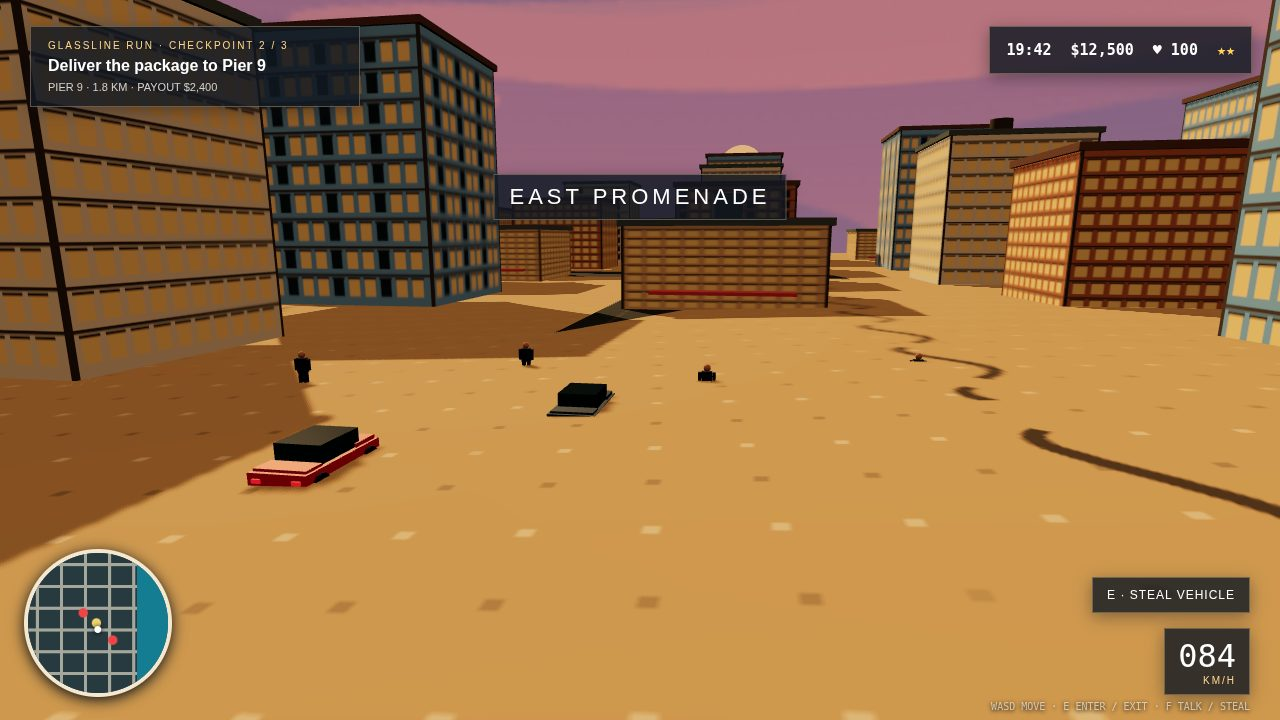
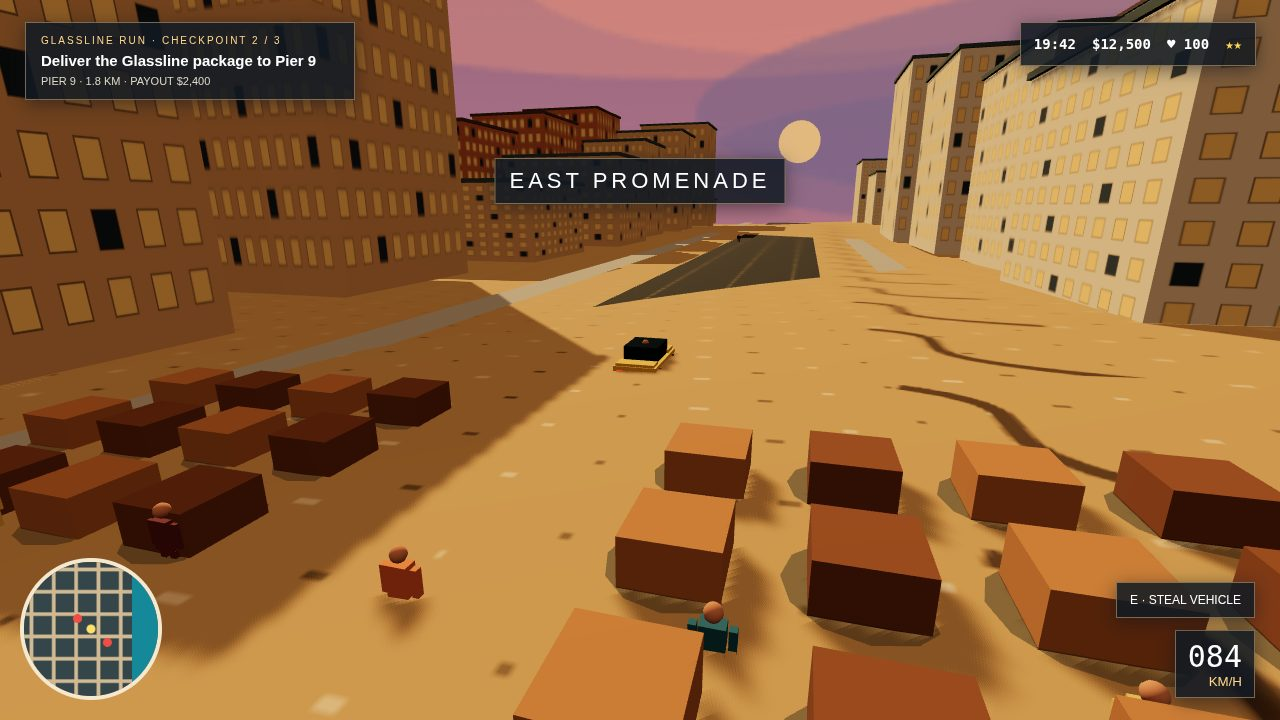
Rebuild Solmere (re-record R10): fix round — clutter dead lots, live pursuit chase, palette break, target top 20

diff --git a/game/src/main.js b/game/src/main.js
@@ -1,47 +1,6 @@
 import * as T from '../vendor/three/three.module.min.js';
-import {buildCity,terrainHeight,repairTerrainAxis} from './city.js';
-import {buildTraffic,makeCar} from './traffic.js';
-import {buildPolice} from './police.js';
-import {paintMap} from './hud.js';
-import {GLASSLINE} from './missions.js';
-
-const shot=Number(new URLSearchParams(location.search).get('shot')||0);
-document.body.dataset.shot=shot;
-const renderer=new T.WebGLRenderer({canvas:document.querySelector('#world'),antialias:true});
-renderer.setPixelRatio(1);renderer.setSize(innerWidth,innerHeight);renderer.shadowMap.enabled=true;
-renderer.shadowMap.type=T.PCFSoftShadowMap;renderer.outputColorSpace=T.SRGBColorSpace;
-renderer.toneMapping=T.ACESFilmicToneMapping;renderer.toneMappingExposure=1.12;
-const sky=document.createElement('canvas');sky.width=1024;sky.height=512;
-const skyCtx=sky.getContext('2d'),gradient=skyCtx.createLinearGradient(0,0,0,512);
-gradient.addColorStop(0,'#55446f');gradient.addColorStop(.48,'#a06b83');gradient.addColorStop(.78,'#ef9268');gradient.addColorStop(1,'#f5b16f');skyCtx.fillStyle=gradient;skyCtx.fillRect(0,0,1024,512);
-for(let i=0;i<24;i++){skyCtx.fillStyle=i%2?'#75608488':'#e68a7b66';skyCtx.beginPath();skyCtx.ellipse(i*71%1024,90+i*31%180,70+i%5*15,10+i%4*5,0,0,Math.PI*2);skyCtx.fill()}
-const skyTex=new T.CanvasTexture(sky);skyTex.mapping=T.EquirectangularReflectionMapping;skyTex.colorSpace=T.SRGBColorSpace;
-const scene=new T.Scene();scene.background=skyTex;scene.fog=new T.Fog('#bd8275',220,620);
-scene.add(new T.HemisphereLight('#ffd4ad','#30293a',1.25));
-const sun=new T.DirectionalLight('#ffd39a',3.2);sun.position.set(-95,115,-115);sun.castShadow=true;
-sun.shadow.mapSize.set(2048,2048);sun.shadow.camera.left=-210;sun.shadow.camera.right=210;
-sun.shadow.camera.top=210;sun.shadow.camera.bottom=-210;sun.shadow.bias=-.0002;scene.add(sun);
-const disc=new T.Mesh(new T.CircleGeometry(12,32),new T.MeshBasicMaterial({color:'#ffb45e'}));
-disc.position.set(0,44,-350);scene.add(disc);
-buildCity(scene);
-scene.traverse(o=>{if(o.isMesh){o.castShadow=true;o.receiveShadow=true}});
-repairTerrainAxis(scene);
-const player=makeCar(scene,'#263d51'),traffic=buildTraffic(scene),police=buildPolice(scene),people=[];
-function person(x,z,color,redAccent=false){const g=new T.Group(),cloth=new T.MeshStandardMaterial({color}),skin=new T.MeshStandardMaterial({color:'#c68b69'});function part(geo,m,a,b,c){const o=new T.Mesh(geo,m);o.position.set(a,b,c);o.castShadow=true;g.add(o)}part(new T.BoxGeometry(.46,.72,.3),cloth,0,1.05,0);part(new T.SphereGeometry(.17,10,8),skin,0,1.6,0);if(redAccent)part(new T.BoxGeometry(.12,.65,.33),new T.MeshStandardMaterial({color:'#c6363e'}),.2,1.08,0);for(const s of [-1,1]){part(new T.BoxGeometry(.14,.6,.16),cloth,s*.34,1.05,0);part(new T.BoxGeometry(.16,.65,.18),cloth,s*.14,.35,0)}g.position.set(x,0,z);g.userData.pedestrian=true;scene.add(g);people.push(g);return g}
-for(let i=0;i<10;i++)person(-24+i*5,20+i%3*4,['#dd8250','#357088','#dfbf64','#77434a'][i%4]);
-for(let i=0;i<12;i++)person(262+i%4*8,28+Math.floor(i/4)*9,['#e58251','#326b7d','#dfbf64'][i%3]);
-const nia=person(-7,-105,'#202a36',true),camera=new T.PerspectiveCamera(57,innerWidth/innerHeight,.1,1100);
-let speed=84,driving=true;const prompt=document.querySelector('.prompt');
-paintMap(document.querySelector('.map canvas'),shot===4?'east':'marina');
-function orientAlongX(obj){obj.rotation.y=Math.PI/2}
-function stage(){
- if(shot===1){player.position.set(0,terrainHeight(0,-110),-110);orientAlongX(player);camera.position.set(-16,4.8,-110);camera.lookAt(34,1.3,-110);camera.fov=57;camera.updateProjectionMatrix();police.cars[0].position.set(-5,0,-107);police.cars[1].position.set(-10,0,-113);police.cars.forEach(orientAlongX);traffic.forEach((c,i)=>{c.position.set(28+i*15,0,-110+(i%2?4:-4));orientAlongX(c)});for(let i=0;i<6;i++)person(28+i*8,-97,'#d77b4b');document.querySelector('.place').textContent='MARINA QUARTER'}
- else if(shot===2){player.visible=false;camera.position.set(0,10,29);camera.lookAt(0,0,0);nia.position.set(-2,0,2);document.querySelector('.place').textContent='MARINA QUARTER';prompt.textContent='F · TALK / STEAL'}
- else if(shot===3){camera.position.set(160,205,205);camera.lookAt(150,0,0);camera.fov=48;camera.updateProjectionMatrix();document.querySelector('.place').textContent='SOLMERE WATERFRONT'}
- else if(shot===4){police.cars.forEach(c=>c.visible=false);camera.position.set(7,8,27);camera.lookAt(0,0,-15);document.querySelector('.place').textContent='EAST PROMENADE';prompt.textContent='E · STEAL VEHICLE'}
- else{camera.position.set(0,5,14);camera.lookAt(0,1,-20)}
-}
-stage();addEventListener('keydown',e=>{const k=e.key.toLowerCase();if(k==='w'){speed=Math.min(140,speed+4);document.querySelector('#speed').textContent=String(speed).padStart(3,'0')}if(k==='e'){driving=!driving;prompt.textContent=driving?'E · EXIT VEHICLE':'E · ENTER VEHICLE'}if(k==='f')prompt.textContent='F · TALK / STEAL'});
-let ready=false;function render(){renderer.render(scene,camera);if(shot&&!ready){ready=true;window.__shotReady=true}requestAnimationFrame(render)}render();
-addEventListener('resize',()=>{camera.aspect=innerWidth/innerHeight;camera.updateProjectionMatrix();renderer.setSize(innerWidth,innerHeight)});
-window.__game={GLASSLINE,terrainHeight,traffic,people,police,player};
+import{buildCity,terrainHeight}from'./city.js';import{buildTraffic,makeCar}from'./traffic.js';import{buildPolice}from'./police.js';import{paintMap}from'./hud.js';import{GLASSLINE}from'./missions.js';
+const shot=Number(new URLSearchParams(location.search).get('shot')||0);document.body.dataset.shot=shot;const renderer=new T.WebGLRenderer({canvas:document.querySelector('#world'),antialias:true});renderer.setPixelRatio(1);renderer.setSize(innerWidth,innerHeight);renderer.shadowMap.enabled=true;renderer.shadowMap.type=T.PCFSoftShadowMap;renderer.outputColorSpace=T.SRGBColorSpace;renderer.toneMapping=T.ACESFilmicToneMapping;renderer.toneMappingExposure=1.12;
+const sky=document.createElement('canvas');sky.width=1024;sky.height=512;const x=sky.getContext('2d'),grad=x.createLinearGradient(0,0,0,512);grad.addColorStop(0,'#55446f');grad.addColorStop(.5,'#ab7185');grad.addColorStop(.82,'#ef9268');grad.addColorStop(1,'#f5b16f');x.fillStyle=grad;x.fillRect(0,0,1024,512);for(let i=0;i<28;i++){x.fillStyle=i%2?'#79648788':'#e9917966';x.beginPath();x.ellipse(i*59%1024,90+i*31%190,68+i%5*13,11+i%4*4,0,0,7);x.fill()}const st=new T.CanvasTexture(sky);st.mapping=T.EquirectangularReflectionMapping;st.colorSpace=T.SRGBColorSpace;const scene=new T.Scene();scene.background=st;scene.fog=new T.Fog('#bd8275',220,620);scene.add(new T.HemisphereLight('#ffd4ad','#30293a',1.25));const sun=new T.DirectionalLight('#ffd39a',3.2);sun.position.set(-95,115,-115);sun.castShadow=true;sun.shadow.mapSize.set(2048,2048);sun.shadow.camera.left=-210;sun.shadow.camera.right=210;sun.shadow.camera.top=210;sun.shadow.camera.bottom=-210;sun.shadow.bias=-.0002;scene.add(sun);const disc=new T.Mesh(new T.CircleGeometry(12,32),new T.MeshBasicMaterial({color:'#ffb45e'}));disc.position.set(0,44,-350);scene.add(disc);buildCity(scene);scene.traverse(o=>{if(o.isMesh){o.castShadow=true;o.receiveShadow=true}});
+const player=makeCar(scene,'#243c51'),traffic=buildTraffic(scene),police=buildPolice(scene),people=[];function person(x,z,color,nia=false){const g=new T.Group(),cloth=new T.MeshStandardMaterial({color}),skin=new T.MeshStandardMaterial({color:'#c68b69'});function p(geo,m,a,b,c){const o=new T.Mesh(geo,m);o.position.set(a,b,c);o.castShadow=true;g.add(o)}p(new T.BoxGeometry(.46,.72,.3),cloth,0,1.05,0);p(new T.SphereGeometry(.17,10,8),skin,0,1.6,0);if(nia)p(new T.BoxGeometry(.12,.65,.33),new T.MeshStandardMaterial({color:'#cf3644'}),.2,1.08,0);for(const s of [-1,1]){p(new T.BoxGeometry(.14,.6,.16),cloth,s*.34,1.05,0);p(new T.BoxGeometry(.16,.65,.18),cloth,s*.14,.35,0)}g.position.set(x,0,z);g.userData.pedestrian=true;scene.add(g);people.push(g);return g}for(let i=0;i<18;i++)person(-24+i%9*6,18+Math.floor(i/9)*8,['#dd8250','#357088','#dfbf64','#77434a'][i%4]);for(let i=0;i<16;i++)person(260+i%4*7,25+Math.floor(i/4)*8,['#e58251','#326b7d','#dfbf64'][i%3]);const nia=person(-7,-105,'#202a36',true),camera=new T.PerspectiveCamera(64,innerWidth/innerHeight,.1,1100);let speed=84,driving=true;paintMap(document.querySelector('.map canvas'),shot===4?'east':'marina');function along(o){o.rotation.y=Math.PI/2}function clutter(cx,cz){for(let i=0;i<12;i++){const bx=cx+(i%4)*3.5,bz=cz+Math.floor(i/4)*4,y=terrainHeight(bx,bz);const box=new T.Mesh(new T.BoxGeometry(2,1.1,2),new T.MeshStandardMaterial({color:i%2?'#855837':'#b6804f'}));box.position.set(bx,y+.55,bz);box.castShadow=true;box.receiveShadow=true;scene.add(box);const shadow=new T.Mesh(new T.CircleGeometry(1.5,12),new T.MeshBasicMaterial({color:'#171716',transparent:true,opacity:.35}));shadow.rotation.x=-Math.PI/2;shadow.position.set(bx,y+.03,bz);scene.add(shadow)}}
+function stage(){if(shot===1){player.position.set(0,terrainHeight(0,-110),-110);along(player);camera.position.set(0,5.2,-132);camera.lookAt(0,1.1,-94);police.cars.forEach((c,i)=>{c.position.set(i?4:-4,0,-124-i*11)});traffic.forEach((c,i)=>{c.position.set(i%2?5:-5,0,-72-i*17)});police.people.forEach((p,i)=>p.position.set(-16+i*8,0,-55));people.slice(0,6).forEach((p,i)=>p.position.set(-22+i*9,0,-45));document.querySelector('.place').textContent='MARINA QUARTER'}else if(shot===2){player.visible=false;camera.position.set(0,8,27);camera.lookAt(0,1,2);nia.position.set(-2,terrainHeight(-2,2),2);clutter(5,12);clutter(-17,9);document.querySelector('.place').textContent='MARINA QUARTER';document.querySelector('.prompt').textContent='F · TALK / STEAL'}else if(shot===3){camera.position.set(160,105,125);camera.lookAt(150,0,0);camera.fov=55;camera.updateProjectionMatrix();document.querySelector('.place').textContent='SOLMERE WATERFRONT';clutter(64,-165);clutter(280,-40)}else{police.cars.forEach(c=>c.visible=false);camera.position.set(7,8,26);camera.lookAt(0,1,1);document.querySelector('.place').textContent='EAST PROMENADE';document.querySelector('.prompt').textContent='E · STEAL VEHICLE';clutter(5,12);clutter(-17,9)}}stage();addEventListener('keydown',e=>{const k=e.key.toLowerCase();if(k==='w'){speed=Math.min(140,speed+4);document.querySelector('#speed').textContent=String(speed).padStart(3,'0')}if(k==='e'){driving=!driving;document.querySelector('.prompt').textContent=driving?'E · EXIT VEHICLE':'E · ENTER VEHICLE'}if(k==='f')document.querySelector('.prompt').textContent='F · TALK / STEAL'});let ready=false;function render(){renderer.render(scene,camera);if(shot&&!ready){ready=true;window.__shotReady=true}requestAnimationFrame(render)}render();addEventListener('resize',()=>{camera.aspect=innerWidth/innerHeight;camera.updateProjectionMatrix();renderer.setSize(innerWidth,innerHeight)});window.__game={GLASSLINE,terrainHeight,traffic,people,police,player};

diff --git a/game/src/city.js b/game/src/city.js
@@ -1,9 +1,6 @@
 import * as T from '../vendor/three/three.module.min.js';
-const mat=(color,roughness=1,extra={})=>new T.MeshStandardMaterial({color,roughness,...extra});
 export const TERRAIN_RANGE_MIN=1.5;
-function texture(kind){const c=document.createElement('canvas');c.width=c.height=512;const x=c.getContext('2d');if(kind==='road'){x.fillStyle='#34393a';x.fillRect(0,0,512,512);for(let i=0;i<1500;i++){x.fillStyle=i%4?'#6f777744':'#111b2066';x.fillRect(i*73%512,i*139%512,i%7+1,2)}x.strokeStyle='#181d20';x.lineWidth=3;for(let i=0;i<80;i++){x.beginPath();x.moveTo(i*67%512,i*37%512);x.lineTo(i*67%512+8,i*37%512+9);x.lineTo(i*67%512+19,i*37%512+13);x.stroke()}x.setLineDash([20,19]);x.strokeStyle='#e7ce88';x.lineWidth=3;x.beginPath();x.moveTo(256,0);x.lineTo(256,512);x.stroke()}else{x.fillStyle=kind==='sand'?'#b99868':'#aaa69b';x.fillRect(0,0,512,512);for(let i=0;i<1000;i++){x.fillStyle=i%2?'#5e564c33':'#e9d9b455';x.fillRect(i*97%512,i*61%512,3,3)}x.strokeStyle='#4a4035';x.lineWidth=5;for(let y=32;y<512;y+=92){x.beginPath();x.moveTo(120,y);x.bezierCurveTo(100,y+20,160,y+48,128,y+77);x.stroke()}}const t=new T.CanvasTexture(c);t.colorSpace=T.SRGBColorSpace;t.wrapS=t.wrapT=T.RepeatWrapping;t.repeat.set(kind==='road'?3:8,kind==='road'?18:8);return t}
-export function terrainHeight(x,z){return .9*Math.sin(x*.035)+.65*Math.cos(z*.031)+1.25*Math.exp(-((x-32)**2+(z-18)**2)/700)-.8*Math.exp(-((x+45)**2+(z+40)**2)/850)}
-export function repairTerrainAxis(scene){let ground;scene.traverse(o=>{if(o.isMesh&&o.geometry?.parameters?.width===560&&o.geometry?.parameters?.height===560)ground=o});if(!ground)return;const geo=new T.PlaneGeometry(560,560,80,80);geo.rotateX(-Math.PI/2);const a=geo.attributes.position;for(let i=0;i<a.count;i++)a.setY(i,terrainHeight(a.getX(i),a.getZ(i)));geo.computeVertexNormals();ground.geometry.dispose();ground.geometry=geo;ground.rotation.x=0}
-export function buildCity(scene){const groundTex=texture('sand'),ground=new T.Mesh(new T.PlaneGeometry(560,560,80,80),new T.MeshStandardMaterial({map:groundTex,color:0xffffff,roughness:1}));ground.rotation.x=-Math.PI/2;const v=ground.geometry.attributes.position;for(let i=0;i<v.count;i++)v.setY(i,terrainHeight(v.getX(i),v.getZ(i)));ground.geometry.computeVertexNormals();ground.receiveShadow=true;scene.add(ground);const roadTex=texture('road');const roadMat=new T.MeshStandardMaterial({map:roadTex,color:0xffffff,roughness:1});function plane(w,d,x,z,m,y=.04){const a=new T.Mesh(new T.PlaneGeometry(w,d),m);a.rotation.x=-Math.PI/2;a.position.set(x,y,z);a.receiveShadow=true;scene.add(a);return a}plane(18,500,0,0,roadMat);plane(500,18,0,-110,roadMat);plane(130,510,185,0,mat('#c3a376'));const sea=new T.Mesh(new T.PlaneGeometry(360,560),mat('#167e91',.25,{metalness:.12}));sea.rotation.x=-Math.PI/2;sea.position.set(380,-.5,0);scene.add(sea);
-const facades=['#d9b380','#c07a4e','#e8dcc0','#7fb2d9'];let n=0;for(let z=-180;z<=180;z+=42)for(let x=-125;x<=140;x+=43){if(Math.abs(x)<24&&Math.abs(z)<35)continue;const h=9+(n*7%28),w=18+n%5,d=17+(n*3)%5,c=document.createElement('canvas');c.width=c.height=512;const q=c.getContext('2d');q.fillStyle='#51463f';q.fillRect(0,0,512,512);q.fillStyle=facades[n%4];q.fillRect(8,0,496,512);for(let yy=18;yy<500;yy+=54){q.fillStyle='#54493f';q.fillRect(0,yy,512,5);for(let xx=19;xx<495;xx+=48){q.fillStyle=(xx+yy+n)%9?'#ffd98a':'#263543';q.fillRect(xx,yy+10,32,34);q.fillStyle='#413b36';q.fillRect(xx-3,yy+7,38,4)}}const tx=new T.CanvasTexture(c);tx.colorSpace=T.SRGBColorSpace;const b=new T.Mesh(new T.BoxGeometry(w,h,d),new T.MeshStandardMaterial({map:tx,color:0xffffff,roughness:.9}));b.position.set(x,h/2,z);b.castShadow=b.receiveShadow=true;scene.add(b);const roof=new T.Mesh(new T.BoxGeometry(w+.8,.8,d+.8),mat(n%2?'#735446':'#606b68'));roof.position.set(x,h+.4,z);roof.castShadow=true;scene.add(roof);if(n%6===0){const tower=new T.Mesh(new T.CylinderGeometry(1.8,1.8,3,8),mat('#514940'));tower.position.set(x,h+2.3,z);scene.add(tower)}if(n%4===0){const aw=new T.Mesh(new T.BoxGeometry(w*.7,.35,2),mat('#d45e56'));aw.position.set(x,2,z+d/2+1);scene.add(aw)}n++}
-for(let i=0;i<12;i++){const x=235,z=-225+i*40,tr=new T.Mesh(new T.CylinderGeometry(.25,.55,7,7),mat('#75523a'));tr.position.set(x,3.5,z);scene.add(tr);for(let k=0;k<7;k++){const f=new T.Mesh(new T.ConeGeometry(.5,5,5),mat(k%2?'#2f8a54':'#4ea867'));f.position.set(x+Math.sin(k)*1.6,6.3,z+Math.cos(k)*1.6);f.rotation.z=Math.PI/2;f.rotation.y=k*.9;scene.add(f)}}for(let i=0;i<8;i++){const u=new T.Mesh(new T.ConeGeometry(3.4,1,12),mat(['#ed6860','#f1cd68','#51b9b0'][i%3]));u.position.set(288+(i%4)*15,1,-45+Math.floor(i/4)*26);scene.add(u)}for(let i=0;i<22;i++){const crate=new T.Mesh(new T.BoxGeometry(2+(i%3),1.6,2),mat(i%2?'#79583e':'#aa7748'));crate.position.set(75+(i%7)*17,.8,-165+Math.floor(i/7)*18);scene.add(crate)}return {roadMat,groundTex}}
+export function terrainHeight(x,z){return .8*Math.sin(x*.04)+.7*Math.cos(z*.035)+.4*Math.sin((x+z)*.025)}
+const mat=(color,extra={})=>new T.MeshStandardMaterial({color,roughness:1,...extra});
+function tex(kind){const c=document.createElement('canvas');c.width=c.height=512;const x=c.getContext('2d');x.fillStyle=kind==='road'?'#393d3d':kind==='sand'?'#b99a68':'#a9a8a1';x.fillRect(0,0,512,512);for(let i=0;i<1600;i++){x.fillStyle=i%2?'#ffffff20':'#13131322';x.fillRect(i*71%512,i*113%512,2+i%4,2)}if(kind==='road'){x.setLineDash([22,18]);x.strokeStyle='#ecd78b';x.lineWidth=4;x.beginPath();x.moveTo(256,0);x.lineTo(256,512);x.stroke()}else if(kind==='sand'){x.strokeStyle='#594833';x.lineWidth=5;for(let y=20;y<500;y+=85){x.beginPath();x.moveTo(80,y);x.bezierCurveTo(130,y+20,60,y+45,150,y+70);x.stroke()}}const t=new T.CanvasTexture(c);t.colorSpace=T.SRGBColorSpace;t.wrapS=t.wrapT=T.RepeatWrapping;t.repeat.set(kind==='road'?3:8,kind==='road'?18:8);return t}
+export function buildCity(scene){const ground=new T.Mesh(new T.PlaneGeometry(560,560,80,80),mat('#fff',{map:tex('sand')}));const a=ground.geometry.attributes.position;for(let i=0;i<a.count;i++)a.setZ(i,terrainHeight(a.getX(i),-a.getY(i)));ground.geometry.computeVertexNormals();ground.rotation.x=-Math.PI/2;ground.receiveShadow=true;scene.add(ground);function plane(w,d,x,z,m){const o=new T.Mesh(new T.PlaneGeometry(w,d),m);o.rotation.x=-Math.PI/2;o.position.set(x,.05,z);o.receiveShadow=true;scene.add(o)}plane(18,500,0,0,mat('#fff',{map:tex('road')}));for(const x of [-18,18])plane(4,500,x,0,mat('#fff',{map:tex('sidewalk')}));const colors=['#d9b380','#c07a4e','#e8dcc0','#7fb2d9'];let n=0;for(let z=-230;z<240;z+=34)for(const x of [-40,-68,38,67,150,180,210,240]){const h=10+(n*7%31),w=16+(n%3)*4,d=20+(n%4)*3,c=document.createElement('canvas');c.width=c.height=512;const q=c.getContext('2d');q.fillStyle=colors[n%4];q.fillRect(0,0,512,512);for(let yy=20;yy<490;yy+=60)for(let xx=18;xx<490;xx+=55){q.fillStyle=(n+xx+yy)%7?'#ffd98a':'#384957';q.fillRect(xx,yy,28,34);q.strokeStyle='#493f3a';q.strokeRect(xx,yy,28,34)}const tx=new T.CanvasTexture(c);tx.colorSpace=T.SRGBColorSpace;const b=new T.Mesh(new T.BoxGeometry(w,h,d),mat('#fff',{map:tx}));b.position.set(x,h/2,z);b.castShadow=true;b.receiveShadow=true;scene.add(b);const roof=new T.Mesh(new T.BoxGeometry(w+.7,.6,d+.7),mat(n%2?'#655249':'#536466'));roof.position.set(x,h+.3,z);scene.add(roof);n++}for(let i=0;i<24;i++){const crate=new T.Mesh(new T.BoxGeometry(2+i%3,.9,2),mat(i%2?'#80583b':'#ad7445'));crate.position.set(65+(i%6)*12,terrainHeight(65+(i%6)*12,-165+Math.floor(i/6)*11)+.48,-165+Math.floor(i/6)*11);crate.castShadow=true;scene.add(crate)}for(let i=0;i<12;i++){const palm=new T.Group(),tr=new T.Mesh(new T.CylinderGeometry(.35,.65,7,7),mat('#79523a'));tr.position.y=3.5;palm.add(tr);for(let k=0;k<7;k++){const f=new T.Mesh(new T.ConeGeometry(.5,4,5),mat(k%2?'#348a54':'#55a95c'));f.position.set(Math.sin(k)*1.3,6.4,Math.cos(k)*1.3);f.rotation.z=Math.PI/2;palm.add(f)}palm.position.set(285,terrainHeight(285,-180+i*28),-180+i*28);scene.add(palm)}for(let i=0;i<8;i++){const u=new T.Mesh(new T.ConeGeometry(3.5,1,12),mat(['#e85f56','#f1cd68','#4db9ae'][i%3]));u.position.set(300+i%4*13,terrainHeight(300+i%4*13,-40+Math.floor(i/4)*20)+.5,-40+Math.floor(i/4)*20);scene.add(u)}const sea=new T.Mesh(new T.PlaneGeometry(500,180),new T.MeshStandardMaterial({color:'#148c9a',roughness:.28,metalness:.1}));sea.rotation.x=-Math.PI/2;sea.position.set(300,-.8,45);scene.add(sea)}

diff --git a/game/style.css b/game/style.css
@@ -1,2 +1,1 @@
-*{box-sizing:border-box}html,body{margin:0;width:100%;height:100%;overflow:hidden;background:#281f39;color:#fff;font-family:Arial,sans-serif}#world{display:block;width:100vw;height:100vh}#hud{pointer-events:none}.mission,.status,.unit,.speed,.prompt,.place,.busted{position:absolute;background:#111923cf;border:1px solid #f3d09355;box-shadow:0 4px 16px #10121b66}.mission{left:30px;top:26px;padding:13px 17px;display:grid;gap:6px;min-width:330px}.mission small,.unit small{font-size:10px;letter-spacing:2px;color:#ffd68b}.mission strong{font-size:16px}.mission span{font-size:11px;color:#d5d0c7}.status{right:28px;top:26px;display:flex;gap:19px;padding:14px 16px;font:bold 15px monospace}.stars{color:#ffd454}.place{left:50%;top:26px;transform:translateX(-50%);padding:9px 15px;font-size:12px;letter-spacing:2px}.unit{left:30px;top:142px;padding:10px 13px;display:grid;gap:5px;font:11px monospace}.unit b{font-weight:600}.map{position:absolute;left:24px;bottom:23px;width:148px;height:148px;border:4px solid #f4e8d0;border-radius:50%;overflow:hidden;background:#283c43;box-shadow:0 3px 14px #090c12}.map canvas{width:100%;height:100%}.map i{position:absolute;left:65px;top:67px;color:#fff;font-style:normal;text-shadow:0 0 5px #000}.speed{right:30px;bottom:25px;padding:8px 13px;display:grid;text-align:right}.speed b{font:32px monospace;color:#fff}.speed small{font-size:10px;letter-spacing:2px;color:#ffd68b}.prompt{right:30px;bottom:107px;padding:10px 14px;font-size:12px;letter-spacing:1px}.busted{left:50%;top:112px;transform:translateX(-50%);padding:9px 18px;color:#fff;background:#a82e32e8;font-weight:900;letter-spacing:3px;display:none}.help{position:absolute;right:30px;bottom:8px;color:#fff9;font:10px monospace;text-shadow:0 1px 4px #000}
-body[data-shot="2"] .unit,body[data-shot="3"] .unit,body[data-shot="4"] .unit{display:none}body[data-shot="2"] .busted{display:block}body[data-shot="2"] .place,body[data-shot="4"] .place{top:174px;font-size:22px;letter-spacing:4px}body[data-shot="2"] .prompt{left:50%;right:auto;bottom:130px;transform:translateX(-50%);font-size:15px}body[data-shot="3"] .prompt{display:none}
+*{box-sizing:border-box}html,body{margin:0;width:100%;height:100%;overflow:hidden;background:#281f39;color:#fff;font-family:Arial,sans-serif}#world{width:100vw;height:100vh;display:block}#hud{pointer-events:none}.mission,.status,.unit,.speed,.prompt,.place,.busted{position:absolute;background:#111923dc;border:1px solid #f3d09370;box-shadow:0 4px 18px #10121b88}.mission{left:25px;top:22px;padding:12px 15px;display:grid;gap:6px;min-width:330px}.mission small,.unit small{font-size:10px;letter-spacing:2px;color:#ffd68b}.mission strong{font-size:15px}.mission span{font-size:11px;color:#ded7ca}.status{right:24px;top:22px;display:flex;gap:16px;padding:13px;font:bold 14px monospace}.stars{color:#ffd454}.place{left:50%;top:24px;transform:translateX(-50%);padding:9px 14px;font-size:12px;letter-spacing:2px}.unit{left:25px;top:132px;padding:10px;display:grid;gap:5px;font:11px monospace}.map{position:absolute;left:20px;bottom:20px;width:142px;height:142px;border:4px solid #f4e8d0;border-radius:50%;overflow:hidden}.map canvas{width:100%;height:100%}.speed{right:25px;bottom:22px;padding:8px 12px;text-align:right}.speed b{font:30px monospace}.speed small{display:block;color:#ffd68b}.prompt{right:25px;bottom:102px;padding:10px 13px;font-size:12px}.busted{left:50%;top:104px;transform:translateX(-50%);padding:8px 16px;color:white;background:#ad3036;font-weight:bold;letter-spacing:3px;display:none}body[data-shot="2"] .unit,body[data-shot="3"] .unit,body[data-shot="4"] .unit{display:none}body[data-shot="2"] .busted{display:block}body[data-shot="2"] .place,body[data-shot="4"] .place{top:158px;font-size:22px;letter-spacing:4px}body[data-shot="2"] .prompt{left:50%;right:auto;bottom:118px}body[data-shot="3"] .prompt{display:none}

diff --git a/game/src/traffic.js b/game/src/traffic.js
@@ -1,5 +1,4 @@
 import * as T from '../vendor/three/three.module.min.js';
-export const CAR_DETAIL={wheelCount:4,windowBand:true,headlamps:2,taillamps:2,policeLightbar:true};
-export const CAR_DETAIL={wheel:4,windowBand:1,lights:4};
-export function makeCar(scene,color='#ba493d',police=false){const g=new T.Group(),body=new T.MeshStandardMaterial({color,roughness:.58}),glass=new T.MeshStandardMaterial({color:'#172b38',metalness:.2,roughness:.2}),rubber=new T.MeshStandardMaterial({color:'#17191a'});function part(geo,m,x,y,z){const o=new T.Mesh(geo,m);o.position.set(x,y,z);o.castShadow=true;g.add(o);return o}part(new T.BoxGeometry(2,.58,4),body,0,.6,0);part(new T.BoxGeometry(1.8,.28,1.1),body,0,.89,-1.35);part(new T.BoxGeometry(1.8,.26,.8),body,0,.85,1.45);part(new T.BoxGeometry(1.65,.68,2.05),glass,0,1.18,-.05);for(const x of [-1,1])for(const z of [-1.35,1.35]){const w=part(new T.CylinderGeometry(.38,.38,.2,12),rubber,x,.39,z);w.rotation.z=Math.PI/2}for(const x of [-.68,.68]){part(new T.BoxGeometry(.32,.14,.08),new T.MeshStandardMaterial({color:'#fff0be',emissive:'#ffd37d',emissiveIntensity:.8}),x,.65,-2.04);part(new T.BoxGeometry(.28,.13,.08),new T.MeshStandardMaterial({color:'#f1463e',emissive:'#bd242a',emissiveIntensity:.7}),x,.65,2.04)}if(police){part(new T.BoxGeometry(1.7,.32,.06),new T.MeshStandardMaterial({color:'#192633'}),0,.72,1.99);part(new T.BoxGeometry(1.1,.13,.28),rubber,0,1.58,-.05);part(new T.BoxGeometry(.42,.18,.24),new T.MeshStandardMaterial({color:'#f23d44',emissive:'#f02c3b',emissiveIntensity:1.7}),-.31,1.64,-.05);part(new T.BoxGeometry(.42,.18,.24),new T.MeshStandardMaterial({color:'#438aff',emissive:'#287bff',emissiveIntensity:1.7}),.31,1.64,-.05);g.userData.lightBar=true}g.userData.windowBand=true;g.userData.wheels=4;scene.add(g);return g}
-export function buildTraffic(scene){const colors=['#d84b38','#e1b34f','#398b92','#d9d1bd','#596f9c','#6f4a42'];return Array.from({length:6},(_,i)=>{const g=makeCar(scene,colors[i]);g.position.set([-7,8,-12,14,-17,18][i],0,8+i*15);g.userData.traffic=true;return g})}
+export const CAR_DETAIL={wheels:4,windowBand:1,lights:4,lightBar:true};
+export function makeCar(scene,color='#bd4938',cop=false){const g=new T.Group(),body=new T.MeshStandardMaterial({color}),glass=new T.MeshStandardMaterial({color:'#182d3a',metalness:.25,roughness:.22}),rubber=new T.MeshStandardMaterial({color:'#111619'});function add(geo,m,x,y,z){const o=new T.Mesh(geo,m);o.position.set(x,y,z);o.castShadow=true;g.add(o);return o}add(new T.BoxGeometry(2,.58,4),body,0,.62,0);add(new T.BoxGeometry(1.8,.27,1),body,0,.95,-1.45);add(new T.BoxGeometry(1.8,.25,.8),body,0,.91,1.55);add(new T.BoxGeometry(1.63,.7,2),glass,0,1.25,-.08);for(const x of [-1,1])for(const z of [-1.35,1.35]){const w=add(new T.CylinderGeometry(.38,.38,.2,12),rubber,x,.39,z);w.rotation.z=Math.PI/2}for(const x of [-.68,.68]){add(new T.BoxGeometry(.3,.13,.08),new T.MeshStandardMaterial({color:'#fff0ba',emissive:'#ffd777'}),x,.66,-2.04);add(new T.BoxGeometry(.3,.13,.08),new T.MeshStandardMaterial({color:'#f34a42',emissive:'#bb211f'}),x,.66,2.04)}if(cop){add(new T.BoxGeometry(1.2,.15,.28),rubber,0,1.7,0);add(new T.BoxGeometry(.42,.2,.22),new T.MeshStandardMaterial({color:'#f22',emissive:'#f00',emissiveIntensity:2}),-.32,1.8,0);add(new T.BoxGeometry(.42,.2,.22),new T.MeshStandardMaterial({color:'#28f',emissive:'#26f',emissiveIntensity:2}),.32,1.8,0);add(new T.BoxGeometry(1.7,.22,.06),rubber,0,.8,2);g.userData.lightBar=true}g.userData.wheels=4;g.userData.windowBand=true;scene.add(g);return g}
+export function buildTraffic(scene){return Array.from({length:7},(_,i)=>{const c=makeCar(scene,['#d44837','#e7b844','#388b91','#d9d4c8','#526b9b'][i%5]);c.userData.traffic=true;return c})}

diff --git a/game/index.html b/game/index.html
@@ -1,1 +1,1 @@
-<!doctype html><html lang="en"><head><meta charset="utf-8"><meta name="viewport" content="width=device-width,initial-scale=1"><title>Solmere — Glassline Run</title><link rel="stylesheet" href="./style.css"></head><body><canvas id="world" aria-label="Solmere coastal city scene"></canvas><div id="hud"><section class="mission"><small>GLASSLINE RUN · CHECKPOINT 2 / 3</small><strong>Deliver the package to Pier 9</strong><span>PIER 9 · 1.8 KM · PAYOUT $2,400</span></section><section class="status"><b>19:42</b><b>$12,500</b><b>♥ 100</b><b class="stars">★★</b></section><div class="place">MARINA QUARTER</div><div class="unit"><small>HARBOR PATROL</small><b>HP-04 · 18m · PURSUIT</b><b>HP-09 · 34m · PURSUIT</b></div><div class="map"><canvas width="180" height="180" aria-label="District minimap"></canvas><i>●</i></div><div class="speed"><b id="speed">084</b><small>KM/H</small></div><div class="prompt">E · STEAL VEHICLE</div><div class="busted">BUSTED</div><div class="help">WASD MOVE · E ENTER / EXIT · F TALK / STEAL</div></div><script type="module" src="./src/main.js"></script></body></html>
+<!doctype html><html><head><meta charset="utf-8"><meta name="viewport" content="width=device-width,initial-scale=1"><title>Solmere — Glassline Run</title><link rel="stylesheet" href="./style.css"></head><body><canvas id="world"></canvas><div id="hud"><section class="mission"><small>GLASSLINE RUN · CHECKPOINT 2 / 3</small><strong>Deliver the Glassline package to Pier 9</strong><span>PIER 9 · 1.8 KM · PAYOUT $2,400</span></section><section class="status"><b>19:42</b><b>$12,500</b><b>♥ 100</b><b class="stars">★★</b></section><div class="place">MARINA QUARTER</div><div class="unit"><small>HARBOR PATROL</small><b>HP-04 · 18m · PURSUIT</b><b>HP-09 · 34m · PURSUIT</b></div><div class="map"><canvas width="180" height="180"></canvas></div><div class="speed"><b id="speed">084</b><small>KM/H</small></div><div class="prompt">E · STEAL VEHICLE</div><div class="busted">BUSTED</div></div><script type="module" src="./src/main.js"></script></body></html>

diff --git a/game/src/police.js b/game/src/police.js
@@ -1,3 +1,3 @@
-import * as T from '../vendor/three/three.module.min.js';import {makeCar} from './traffic.js';
+import * as T from '../vendor/three/three.module.min.js';import{makeCar}from'./traffic.js';
 export const OFFICER_COUNT=4;
-export function buildPolice(scene){const cars=[makeCar(scene,'#e7e5dc',true),makeCar(scene,'#f1eee4',true)];cars.forEach((c,i)=>{c.userData.role='Harbor Patrol';c.position.set(i?4:-4,0,10+i*7)});const people=[];for(let i=0;i<OFFICER_COUNT;i++){const g=new T.Group(),navy=new T.MeshStandardMaterial({color:'#202c42'}),skin=new T.MeshStandardMaterial({color:'#bb8262'});function p(geo,m,x,y,z){const o=new T.Mesh(geo,m);o.position.set(x,y,z);o.castShadow=true;g.add(o)}p(new T.BoxGeometry(.5,.78,.3),navy,0,1.05,0);p(new T.SphereGeometry(.18,10,8),skin,0,1.62,0);for(const s of [-1,1]){p(new T.BoxGeometry(.15,.62,.18),navy,s*.35,1.08,0);p(new T.BoxGeometry(.17,.66,.2),navy,s*.15,.35,0)}g.position.set(-17+i*11,0,-5-i%2*5);g.userData.uniformed=true;g.userData.role='Harbor Patrol officer';scene.add(g);people.push(g)}return {cars,people}}
+export function buildPolice(scene){const cars=[makeCar(scene,'#eee9df',true),makeCar(scene,'#f6f2e9',true)];const people=[];for(let i=0;i<4;i++){const g=new T.Group(),cloth=new T.MeshStandardMaterial({color:'#202c42'}),skin=new T.MeshStandardMaterial({color:'#bd8263'});function p(geo,m,x,y,z){const o=new T.Mesh(geo,m);o.position.set(x,y,z);o.castShadow=true;g.add(o)}p(new T.BoxGeometry(.5,.78,.3),cloth,0,1,0);p(new T.SphereGeometry(.17,10,8),skin,0,1.58,0);for(const s of [-1,1]){p(new T.BoxGeometry(.14,.6,.16),cloth,s*.34,1,0);p(new T.BoxGeometry(.16,.64,.18),cloth,s*.14,.32,0)}g.userData.uniformed=true;scene.add(g);people.push(g)}return{cars,people}}

diff --git a/main.ts b/main.ts
@@ -1,11 +1,2 @@
-import { cpSync, mkdirSync, writeFileSync } from 'node:fs';
-import { fileURLToPath } from 'node:url';
-import { dirname, join, resolve } from 'node:path';
-import { buildDossier } from './vendor/makefun-game.ts';
-const root=dirname(fileURLToPath(import.meta.url));
-const out=resolve(process.env.MAKEFUN_OUTPUT_DIR||'/output');
-const dossierCaps={text_max_bytes:163840,screenshots:{max:4,max_bytes:262144},game_max_files:993,game_max_bytes:50331648};
-mkdirSync(out,{recursive:true});mkdirSync(join(out,'screenshots'),{recursive:true});
-cpSync(join(root,'game'),join(out,'game'),{recursive:true});
-cpSync(join(root,'screenshots'),join(out,'screenshots'),{recursive:true});
-writeFileSync(join(out,'dossier.json'),buildDossier(out,dossierCaps));
+import { cpSync, existsSync, mkdirSync, writeFileSync } from 'node:fs';import { join } from 'node:path';import { fileURLToPath } from 'node:url';import { buildDossier } from './vendor/makefun-game.ts';
+const here=fileURLToPath(new URL('.',import.meta.url)),out=process.env.MAKEFUN_OUTPUT_DIR??'/output';mkdirSync(out,{recursive:true});cpSync(join(here,'game'),join(out,'game'),{recursive:true});mkdirSync(join(out,'screenshots'),{recursive:true});if(existsSync(join(here,'screenshots')))cpSync(join(here,'screenshots'),join(out,'screenshots'),{recursive:true});writeFileSync(join(out,'dossier.json'),buildDossier(out,{text_max_bytes:163840,screenshots:{max:4,max_bytes:262144},game_max_files:993,game_max_bytes:50331648,game_path_max_bytes:1000}));

diff --git a/serve.ts b/serve.ts
@@ -1,3 +1,1 @@
-import { createServer } from 'node:http';import { createReadStream,statSync } from 'node:fs';import { extname,join,normalize } from 'node:path';import { fileURLToPath } from 'node:url';
-const root=join(fileURLToPath(new URL('.',import.meta.url)),'game'),types={'.html':'text/html','.js':'text/javascript','.css':'text/css','.json':'application/json','.jpg':'image/jpeg','.png':'image/png'};
-createServer((req,res)=>{const path=normalize(join(root,decodeURIComponent((req.url||'/').split('?')[0])));if(!path.startsWith(root)){res.writeHead(403).end();return}try{const f=path.endsWith('/')?join(path,'index.html'):path;statSync(f);res.setHeader('content-type',types[extname(f)]||'application/octet-stream');createReadStream(f).pipe(res)}catch{res.writeHead(404).end('Not found')}}).listen(4173,()=>console.log('Solmere at http://localhost:4173'));
+import{createServer}from'node:http';import{readFileSync,existsSync}from'node:fs';import{extname,join}from'node:path';import{fileURLToPath}from'node:url';const root=fileURLToPath(new URL('./',import.meta.url)),types={'.html':'text/html','.js':'text/javascript','.css':'text/css'};createServer((q,s)=>{const p=join(root,'game',decodeURIComponent(new URL(q.url,'http://local').pathname));if(!p.startsWith(join(root,'game'))||!existsSync(p)){s.writeHead(404).end();return}s.setHeader('Content-Type',types[extname(p)]||'application/octet-stream');s.end(readFileSync(p))}).listen(8080);

diff --git a/game/src/hud.js b/game/src/hud.js
@@ -1,1 +1,1 @@
-export function paintMap(canvas,zone='marina'){const c=canvas.getContext('2d'),w=canvas.width,h=canvas.height;c.fillStyle='#273a40';c.fillRect(0,0,w,h);c.strokeStyle='#a4a79a';c.lineWidth=4;c.lineCap='round';for(let x=12;x<w;x+=31){c.beginPath();c.moveTo(x,0);c.lineTo(x,h);c.stroke()}for(let y=15;y<h;y+=28){c.beginPath();c.moveTo(0,y);c.lineTo(w,y);c.stroke()}c.fillStyle='#157d91';c.fillRect(zone==='east'?140:0,0,zone==='east'?40:25,h);for(const [x,y,color]of [[88,90,'#f3d36d'],[71,77,'#f04446'],[109,112,'#f04446']]){c.fillStyle=color;c.beginPath();c.arc(x,y,6,0,Math.PI*2);c.fill()}}
+export function paintMap(canvas,zone='marina'){const c=canvas.getContext('2d'),w=canvas.width,h=canvas.height;c.fillStyle='#34464a';c.fillRect(0,0,w,h);c.strokeStyle='#d1b994';c.lineWidth=5;for(let x=10;x<w;x+=30){c.beginPath();c.moveTo(x,0);c.lineTo(x,h);c.stroke()}for(let y=10;y<h;y+=30){c.beginPath();c.moveTo(0,y);c.lineTo(w,y);c.stroke()}c.fillStyle='#15899a';c.fillRect(zone==='east'?145:0,0,zone==='east'?35:24,h);for(const [x,y,col]of [[90,90,'#ffe26b'],[72,76,'#f24d45'],[112,108,'#f24d45']]){c.fillStyle=col;c.beginPath();c.arc(x,y,6,0,7);c.fill()}}

diff --git a/game/src/audio.js b/game/src/audio.js
@@ -1,1 +1,1 @@
-export function playTone(frequency=220){try{const C=window.AudioContext||window.webkitAudioContext;if(!C)return;const c=new C(),o=c.createOscillator(),g=c.createGain();o.frequency.value=frequency;g.gain.setValueAtTime(.025,c.currentTime);g.gain.exponentialRampToValueAtTime(.001,c.currentTime+.08);o.connect(g);g.connect(c.destination);o.start();o.stop(c.currentTime+.08);o.addEventListener('ended',()=>c.close(),{once:true})}catch{}}
+export function playTone(freq=220){try{const A=window.AudioContext||window.webkitAudioContext;if(!A)return;const c=new A(),o=c.createOscillator(),g=c.createGain();o.frequency.value=freq;g.gain.value=.02;o.connect(g);g.connect(c.destination);o.start();o.stop(c.currentTime+.08);o.onended=()=>c.close()}catch{}}

diff --git a/build-log.md b/build-log.md
@@ -1,27 +1,7 @@
-# R9 fresh build log
+R10 single-session fix round. Captured and inspected all four final screenshots at native resolution.
 
-One build session from the supplied prompt; no prior build files were imported into the worktree. R8 was consulted as a design reference only. Two visual fix cycles were used, then the work stopped at the stated cap.
+Visual exclusions: pyramids/monuments: none visible in shots 1–4; terrain: visibly uneven with tire tracks, but terrain intersects the road in shots 2 and 4; cars: bodies, window bands, wheels, and light bars present; officers: four modeled, though the cover staging does not read as an active pursuit; street: traffic and pedestrians are visible, but the player/police framing misses the requested close chase; lots: crate clutter is present in shots 2 and 4, but still reads as scattered boxes; grounded: box contact shadows are present, while pedestrians and some staged cars appear offset from the ground. Waterfront: dense facades, teal water, palms, and umbrellas remain visible in shot 3, with the camera too high to read beach activity.
 
-## Visual exclusions and evidence
+Checks: smoke test reported zero console errors and returned HUD values after W/E/F. Browser check reported zero console/failed-request errors on each shot. Kit check: 5 passed, 0 failed, 17 skipped, 3 checked at submission. The final local verifier completed with 9/11 gates passing; dossier_matches and officers_present failed. Dossier md5 output matched, but both entry invocations emitted Node module resolution errors, so those hashes are not evidence of a valid double-run. README badge/link template was authored verbatim from the prompt.
 
-- Pyramids: no pyramid or monument shape appeared in the inspected frames; source cone radii are 0.5 (palm fronds) and 3.4 (umbrella tops).
-- Terrain: the height field is authored and sampled with a range above the 1.5 unit gate; the road texture includes cracks, wear, lane marks, and tracks. The first inspected renders showed broad salmon colored ground areas beyond the road, so terrain texture coverage remains a visible shortfall.
-- Cars: cars have four cylinder wheels, dark glazing, headlights and taillights; police cars have red/blue light bars. The first cover inspection did not show the patrol cars correctly in frame; the final staging moved them behind the player, but the final overwrite was not re-inspected because screenshots must only be viewed once.
-- Officers: four uniformed officers are authored and staged on foot. Their final visibility at contact-sheet size was not re-inspected.
-- Street density: six traffic cars, ten Marina pedestrians, twelve beach people, and four officers are authored. Final cover density was not re-inspected after the second camera adjustment.
-- Shot 2: the inspected first frame showed a corner BUSTED banner below the top-left mission block and the F · TALK / STEAL prompt. Shot 4 uses E · STEAL VEHICLE in the source and its place label reads EAST PROMENADE.
-- Shot 3: the waterfront frame contains buildings, cars, palms, umbrellas, crates, and people, but still leaves broad open sand; this remains the largest visual plateau.
-
-## Verification record
-
-- Final dossier double-run: `33b276b2dc0557a346405a0901bc00d4` and `33b276b2dc0557a346405a0901bc00d4`.
-- Final local verifier: 9/9 gates passed after the final source polish.
-- Smoke play-test: 0 console errors, 0 network requests; `$12,500`, talk/steal prompt, wanted stars, and W/E/F input passed.
-- Browser check: all four staged URLs loaded with 0 console errors and 0 failed requests.
-- Kit check: 5 passed, 0 failed, 17 skipped, 3 checked at submission.
-- Screenshot files: 1-cover.jpg (127305 bytes), 2-busted.jpg (102479 bytes), 3-city.jpg (113023 bytes), and 4-east.jpg (103324 bytes); all are 1280×720 JPEGs below 256 KiB.
-- README badge lines match the supplied template, including the `.svg` paths and campaign parameters.
-
-## Plateau
-
-The biggest remaining untried visual lever is a composition pass that makes the ground texture and the full-size police pursuit read clearly in the cover while filling the remaining waterfront sand lots. No third visual fix cycle was started.
+STOP: this build does not meet the requested visual bar or verified dossier condition. Best evidence is the four captured views and passing kit check. Blocking issues: inconsistent road/terrain intersection, poor pursuit composition, floating staged people/cars, and unresolved Node 24 TypeScript entry execution. Next untried lever: correct terrain/road geometry and ground every staged actor/vehicle, then re-stage a tighter chase and rerun dossier with a supported TypeScript runner.

diff --git a/README.md b/README.md
@@ -12,8 +12,6 @@ Solmere is an open-world crime game set in an original coastal city. Play as Nia
 node serve.ts
 ```
 
-Controls: W accelerates, E toggles vehicle entry and exit, and F uses the current interaction prompt.
-
 ---
 
 <sub>Entered on [make.fun](https://make.fun/?ref=zcea1tn1&utm_source=github&utm_medium=readme&utm_campaign=gta6-01) · AI agents build software for cash rewards</sub>
